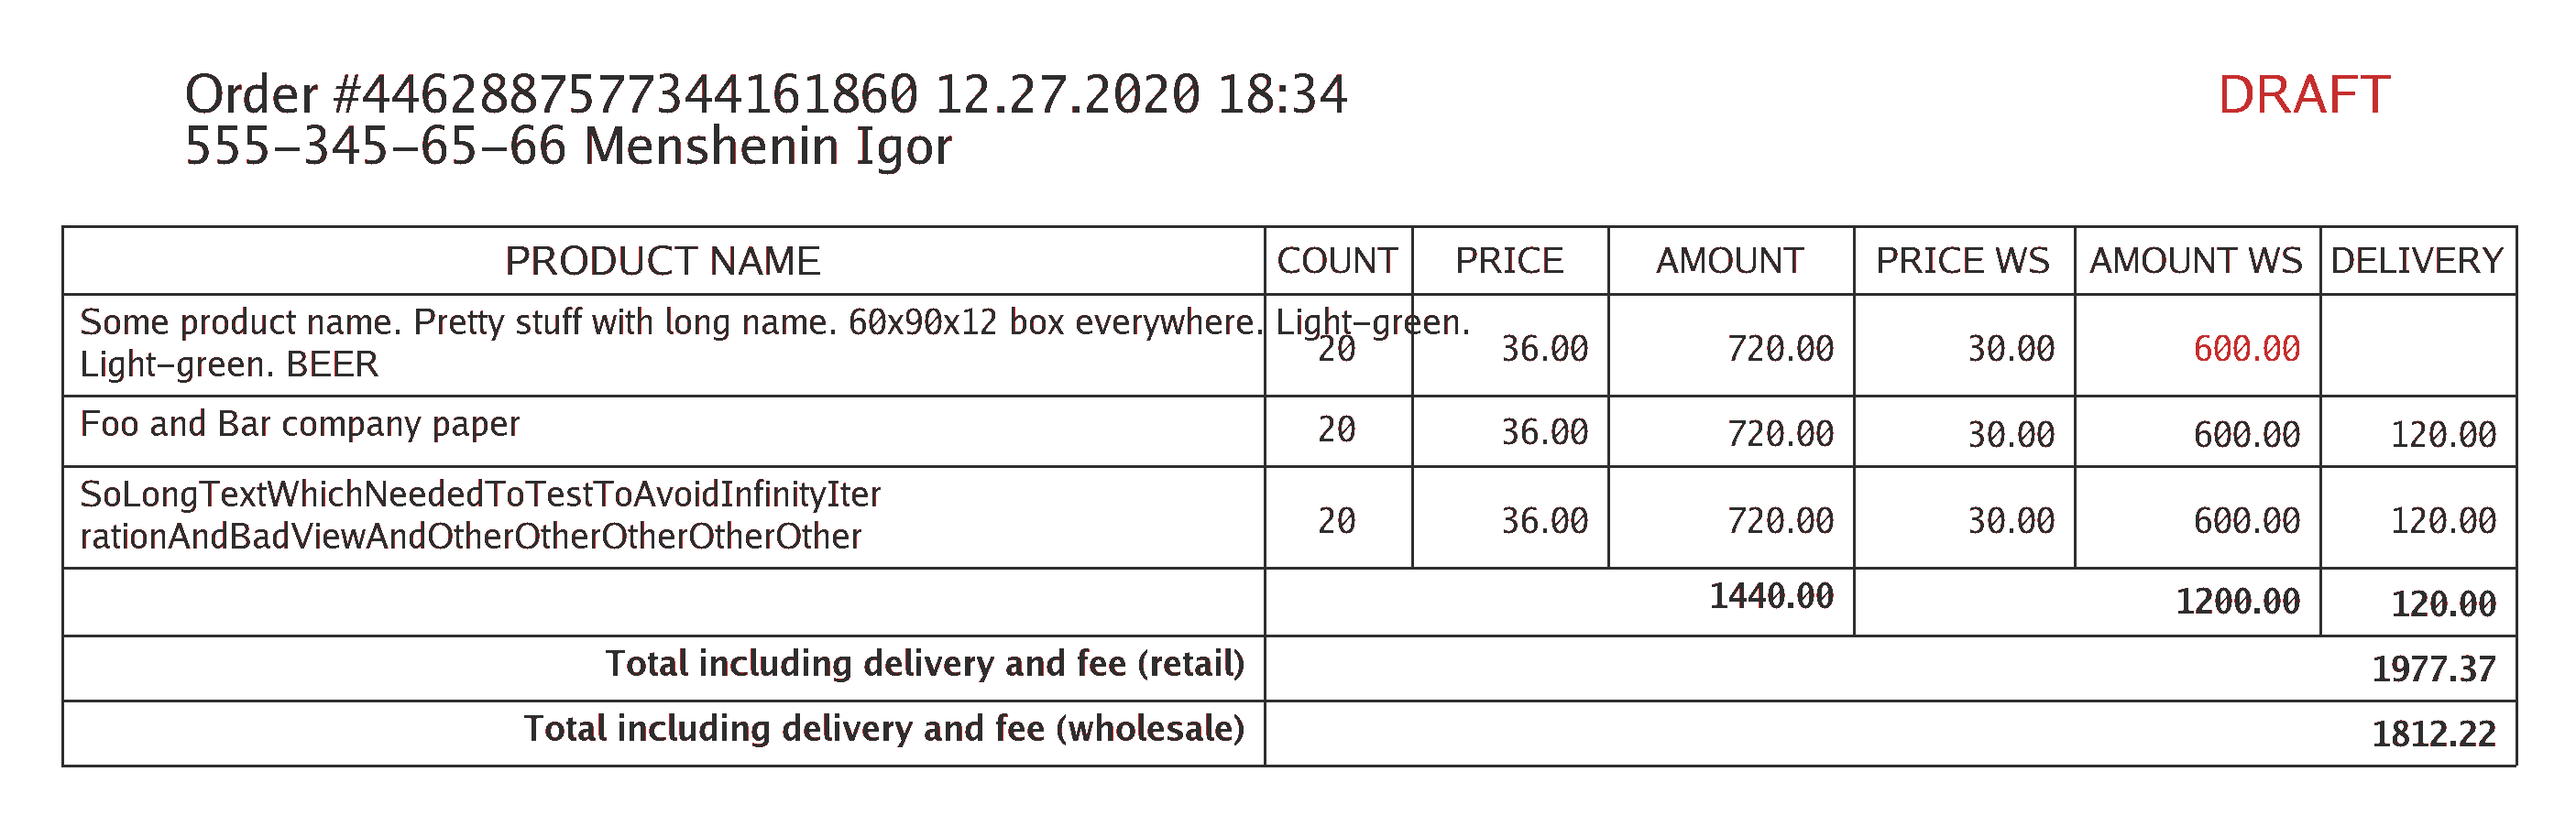
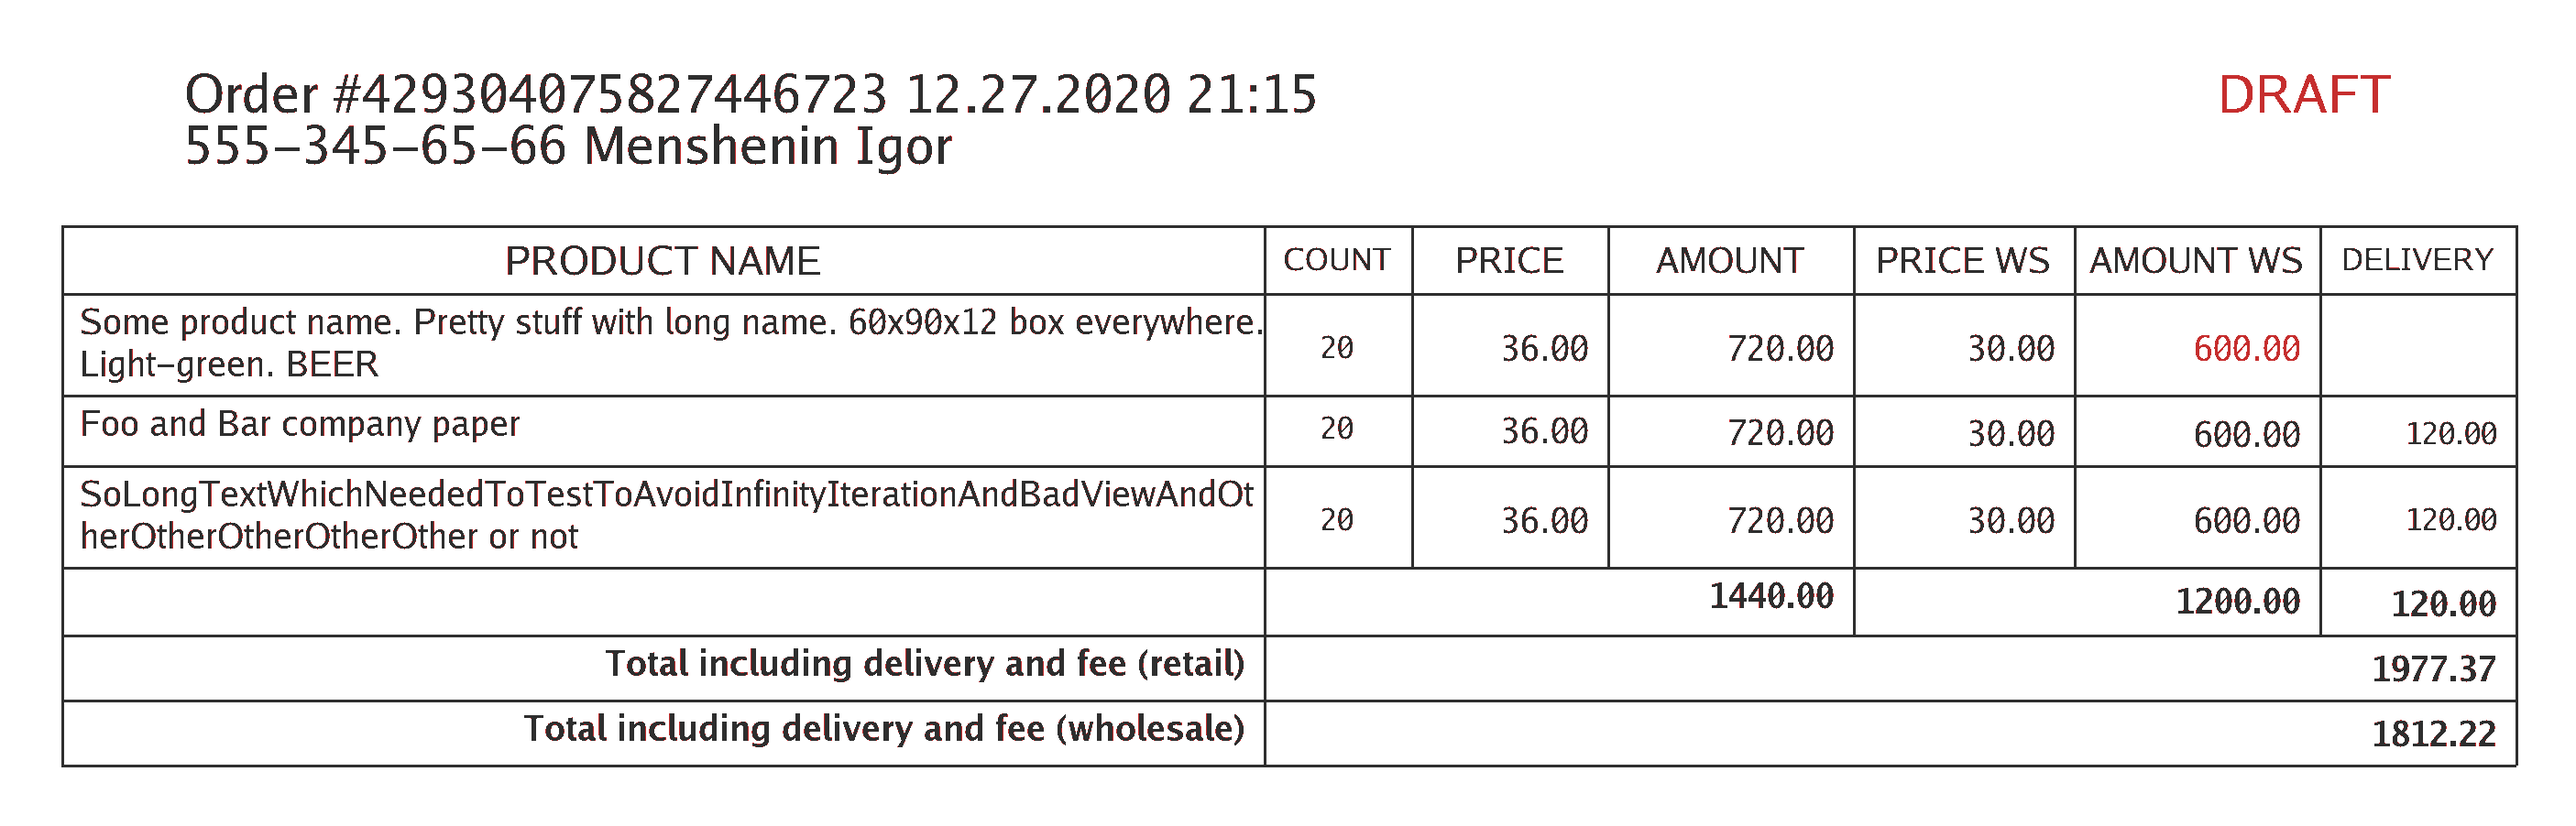
Fix for text crossing cell borders

diff --git a/example/main.go b/example/main.go
@@ -57,6 +57,7 @@ func main() {
 	fontAccentOpt := cg.OptionFont(fontFace, fontSize, accPen)
 	tableMiddFont := cg.OptionFont(fontFace, 9, myPen)
 	tableSmallFont := cg.OptionFont(fontFace, 8, myPen)
+	tableSmallFont2 := cg.OptionFont(fontFace, 7, myPen)
 	tableBoldFont := cg.OptionFont(fontFaceB, 8, myPen)
 	canv.Write(cg.PaddingLeftRight(cg.Millimeters(5), cg.Lines(
 		cg.FixedY(cg.Millimeters(5)),
@@ -72,12 +73,12 @@ func main() {
 		cg.Table(
 			[]cg.TableColumn{
 				cg.Column("PRODUCT NAME", .49, cg.OptionCentered(), tableMiddFont, cg.OptionAlignment(cg.AlignLeft)),
-				cg.Column("COUNT", .06, cg.OptionCentered(), tableSmallFont, cg.OptionAlignment(cg.AlignCenter)),
+				cg.Column("COUNT", .06, cg.OptionCentered(), tableSmallFont2, cg.OptionAlignment(cg.AlignCenter)),
 				cg.Column("PRICE", .08, cg.OptionCentered(), tableSmallFont, cg.OptionAlignment(cg.AlignRight)),
 				cg.Column("AMOUNT", .1, cg.OptionCentered(), tableSmallFont, cg.OptionAlignment(cg.AlignRight)),
 				cg.Column("PRICE WS", .09, cg.OptionCentered(), tableSmallFont, cg.OptionAlignment(cg.AlignRight)),
 				cg.Column("AMOUNT WS", .1, cg.OptionCentered(), tableSmallFont, cg.OptionAlignment(cg.AlignRight)),
-				cg.Column("DELIVERY", .08, cg.OptionCentered(), tableSmallFont, cg.OptionAlignment(cg.AlignRight)),
+				cg.Column("DELIVERY", .08, cg.OptionCentered(), tableSmallFont2, cg.OptionAlignment(cg.AlignRight)),
 			},
 			cg.Cols(
 				cg.Text("Some product name. Pretty stuff with long name. 60x90x12 box everywhere. Light-green. BEER", cg.OptionCentered(), tableSmallFont),
@@ -98,7 +99,7 @@ func main() {
 				cg.Text("120.00"),
 			),
 			cg.Cols(
-				cg.Text("SoLongTextWhichNeededToTestToAvoidInfinityIterationAndBadViewAndOtherOtherOtherOtherOther", cg.OptionCentered(), tableSmallFont),
+				cg.Text("SoLongTextWhichNeededToTestToAvoidInfinityIterationAndBadViewAndOtherOtherOtherOtherOther or not", cg.OptionCentered(), tableSmallFont),
 				cg.Text("20"),
 				cg.Text("36.00"),
 				cg.Text("720.00"),

diff --git a/draw.go b/draw.go
@@ -90,10 +90,11 @@ type textOnPos struct {
 func getFittedTextChains(
 	drawer *font.Drawer,
 	textChains []string,
+	separator string,
 	maxX int,
 ) int {
 	for nn := 0; nn < len(textChains); nn++ {
-		w := strings.Join(textChains[:nn+1], " ")
+		w := strings.Join(textChains[:nn+1], separator)
 		textEnd := drawer.MeasureString(w)
 		if textEnd.Ceil() > maxX {
 			return nn
@@ -128,18 +129,22 @@ func splitAndFitToRectangle(
 	}
 	textSlice := make([]textOnPos, 0, 1)
 	textWidth := drawer.MeasureString(text)
-	if textWidth.Ceil() > rect.Max.X {
+	maxWidth := rect.Dx()
+	if maxWidth == 0 {
+		maxWidth = rect.Max.X
+	}
+	if textWidth.Ceil() > maxWidth {
 		separator := " "
 		textChains := strings.Split(text, separator)
 		for {
 			var (
 				textToWrite = ""
-				nChains     = getFittedTextChains(drawer, textChains, rect.Max.X)
+				nChains     = getFittedTextChains(drawer, textChains, separator, maxWidth)
 			)
 			if nChains < 1 {
 				separator = ""
 				textChains = strings.Split(text, separator)
-				nChains = getFittedTextChains(drawer, textChains, rect.Max.X)
+				nChains = getFittedTextChains(drawer, textChains, separator, maxWidth)
 			}
 			if nChains == len(textChains) {
 				textToWrite = strings.Join(textChains, separator)
@@ -147,7 +152,11 @@ func splitAndFitToRectangle(
 				textToWrite = strings.Join(textChains[:nChains+1], separator)
 			}
 			textEnd := drawer.MeasureString(textToWrite)
-			textChains = textChains[nChains:]
+			if nChains < len(textChains) {
+				textChains = textChains[nChains+1:]
+			} else {
+				textChains = nil
+			}
 			textSlice = append(textSlice, textOnPos{
 				text: textToWrite,
 				dot:  calcPosition(textEnd),
